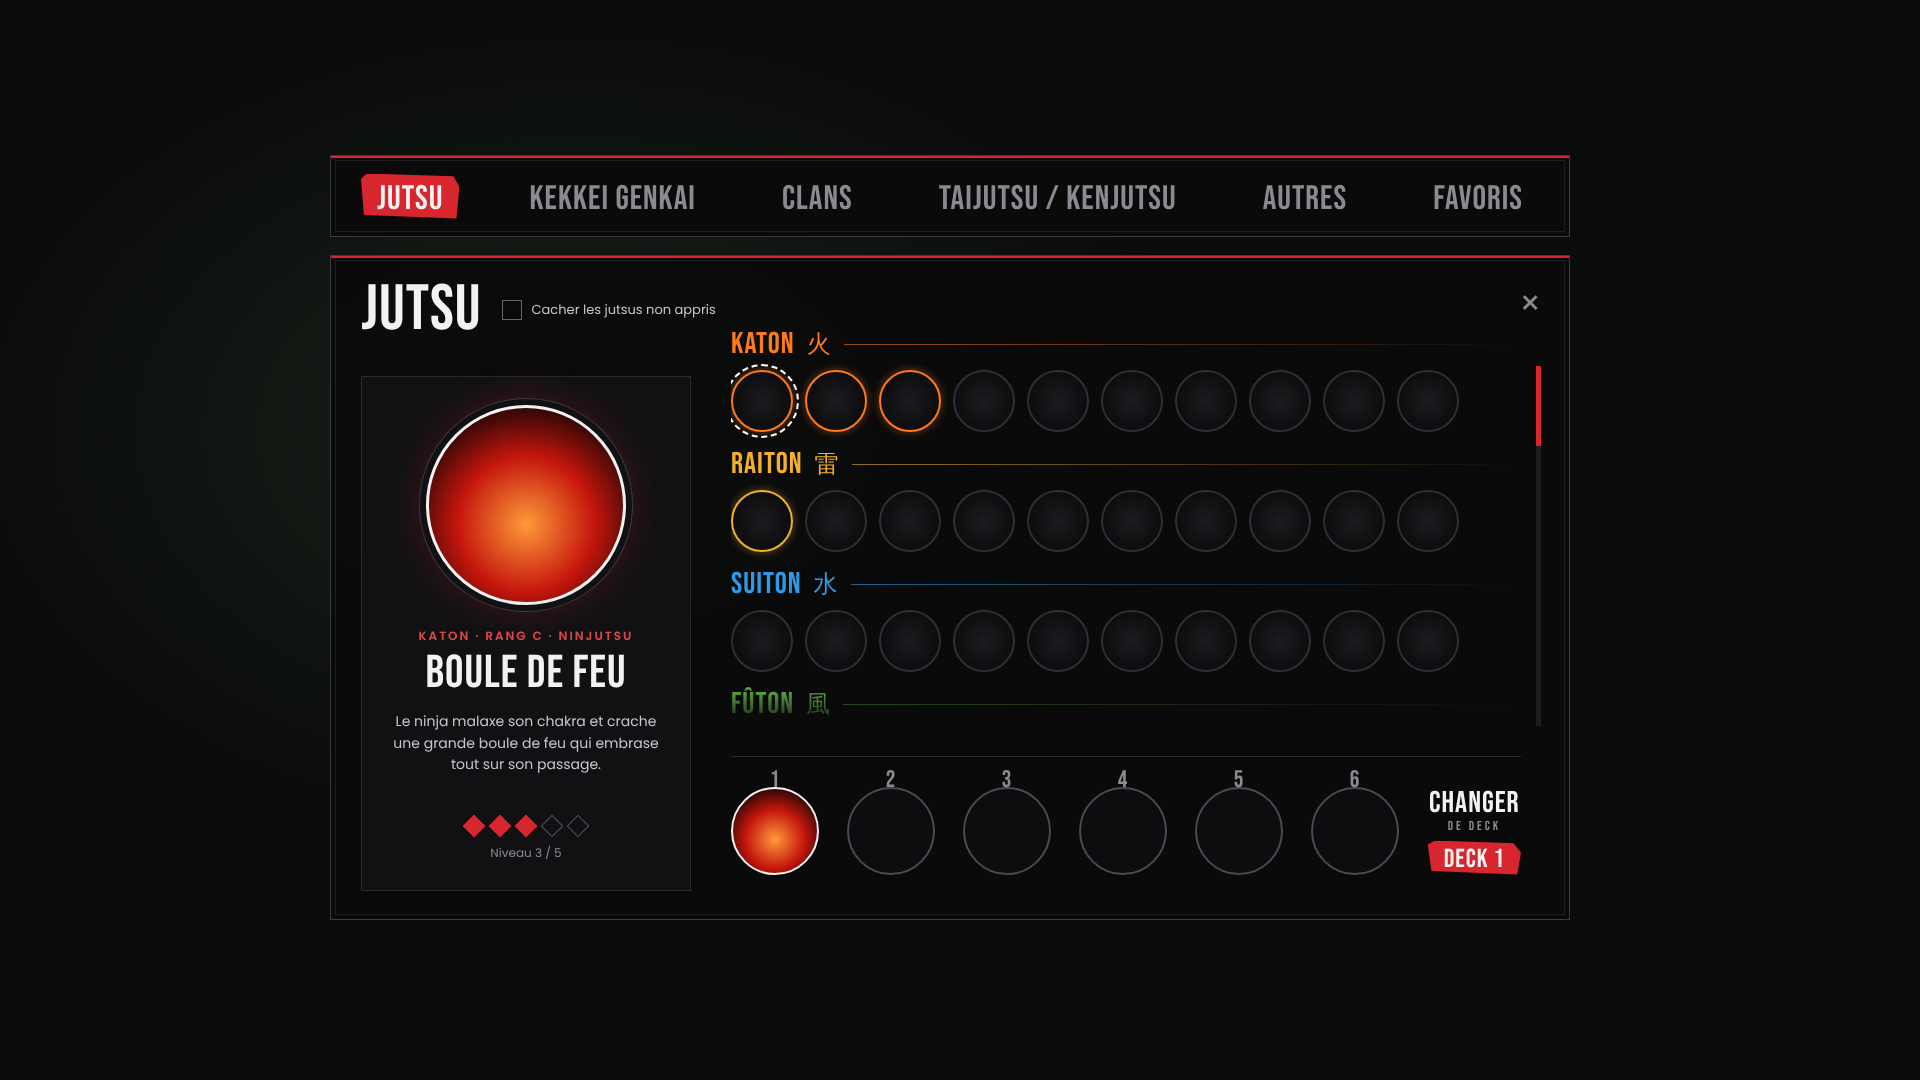
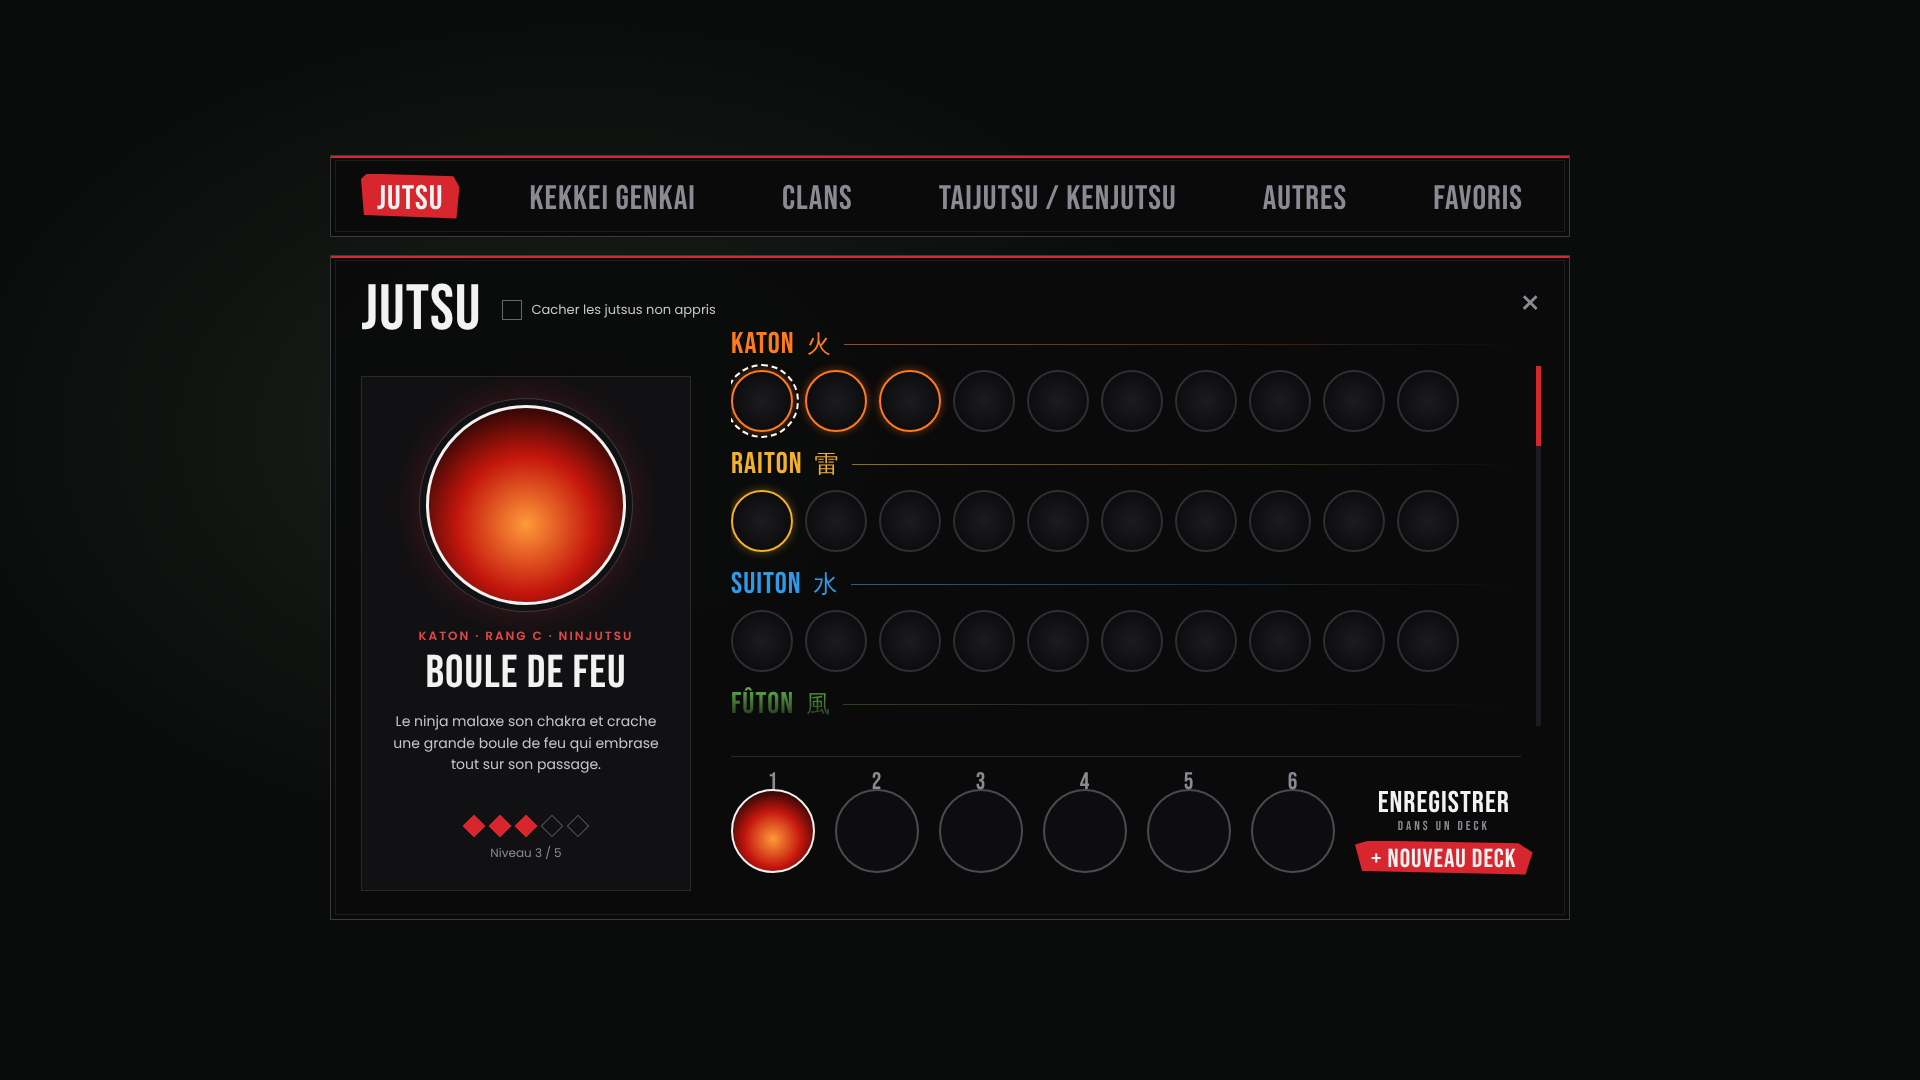
Menu B : bouton Enregistrer dans un deck (fonction tfj_decks) a la place de Changer de deck
Claude-Session: https://claude.ai/code/session_01WNq6bnfK84GAyjbejrSsQj

diff --git a/maquettes/menu_b/maquette_menu_b.html b/maquettes/menu_b/maquette_menu_b.html
@@ -6,7 +6,7 @@
 <link href="https://fonts.googleapis.com/css2?family=Bebas+Neue&family=Poppins:wght@400;600;700&display=block" rel="stylesheet">
 <style>
 /* Menu B (barre de jutsus) : disposition de la reference, DA du F4 TFJ.
-   Onglets = M_Fight.tConfig.tSkillsCategories ; 6 emplacements x 2 decks ; case "jutsus appris". */
+   Onglets = M_Fight.tConfig.tSkillsCategories ; barre de 6 sorts ; bouton "enregistrer la barre comme deck" (tfj_decks, touche H pour equiper) ; case "jutsus appris". */
 :root{--noir:#09090a;--bord:#2a2a2e;--gris:#8a8a92;--blanc:#f2f2f2;--rouge:#b01a1a;--rougeV:#d8262f;--rougeT:#e04848}
 *{box-sizing:border-box;margin:0;padding:0}
 body{width:1920px;height:1080px;overflow:hidden;position:relative;font-family:Poppins,sans-serif;color:var(--blanc);
@@ -50,11 +50,11 @@ body{width:1920px;height:1080px;overflow:hidden;position:relative;font-family:Po
 .defil{position:absolute;left:1205px;top:110px;width:5px;height:360px;background:#1d1d21}.defil i{display:block;height:80px;background:var(--rougeV)}
 .fondu{position:absolute;left:400px;top:420px;width:790px;height:50px;background:linear-gradient(transparent,rgba(10,10,11,.96))}
 /* deck */
-.deck{position:absolute;left:400px;top:500px;width:790px;height:135px;border-top:1px solid #2a2a2e;display:flex;align-items:center;gap:28px;padding-top:14px}
-.slot{position:relative;width:88px;height:88px;border-radius:50%;border:2px solid #4a4a52;background:#0d0d0f}
+.deck{position:absolute;left:400px;top:500px;width:790px;height:135px;border-top:1px solid #2a2a2e;display:flex;align-items:center;gap:20px;padding-top:14px}
+.slot{position:relative;flex:none;width:84px;height:84px;border-radius:50%;border:2px solid #4a4a52;background:#0d0d0f}
 .slot.ok{border-color:var(--blanc);background:radial-gradient(circle at 50% 60%,#ff9a3a,#c4160c 45%,#3a0806 75%)}
 .slot b{position:absolute;top:-24px;left:50%;transform:translateX(-50%);font-size:24px;font-weight:400;color:var(--gris)}
-.chg{margin-left:auto;text-align:center;line-height:1}
+.chg{margin-left:auto;text-align:center;line-height:1;white-space:nowrap}
 .chg b{display:block;font-size:30px;font-weight:400}
 .chg small{display:block;font-size:13px;letter-spacing:3px;color:var(--gris);margin-top:2px}
 .chg span{display:inline-block;margin-top:8px;padding:6px 16px 2px;background:var(--rougeV);font-family:'Bebas Neue';font-size:26px;clip-path:polygon(0 12%,8% 0,92% 8%,100% 35%,96% 100%,4% 90%)}
@@ -86,7 +86,7 @@ body{width:1920px;height:1080px;overflow:hidden;position:relative;font-family:Po
 // groupes = natures, avec les couleurs de colonne du F4
 const G=[['KATON','火','#ff7a1a',[1,1,1,0,0,0,0,0,0,0],1],['RAITON','雷','#f2b02e',[1,0,0,0,0,0,0,0,0,0]],['SUITON','水','#2f9be8',[0,0,0,0,0,0,0,0,0,0]],['FÛTON','風','#7be05a',[0,0,0,0,0,0,0,0,0,0]]];
 document.getElementById('liste').innerHTML=G.map(([n,k,c,r,s])=>`<div class="grp" style="--c:${c}"><h3 class="t" style="color:${c}">${n} <span>${k}</span><em></em></h3><div class="ronds">${r.map((o,i)=>`<i class="${o?'ok':''}${s&&i===0?' sel':''}" style="--c:${c}"></i>`).join('')}</div></div>`).join('');
-document.getElementById('deck').innerHTML=[1,2,3,4,5,6].map(i=>`<div class="slot${i===1?' ok':''}"><b>${i}</b></div>`).join('')+'<div class="chg"><b>CHANGER</b><small>DE DECK</small><span>DECK 1</span></div>';
+document.getElementById('deck').innerHTML=[1,2,3,4,5,6].map(i=>`<div class="slot${i===1?' ok':''}"><b>${i}</b></div>`).join('')+'<div class="chg"><b>ENREGISTRER</b><small>DANS UN DECK</small><span>+ NOUVEAU DECK</span></div>';
 </script>
 </body>
 </html>
